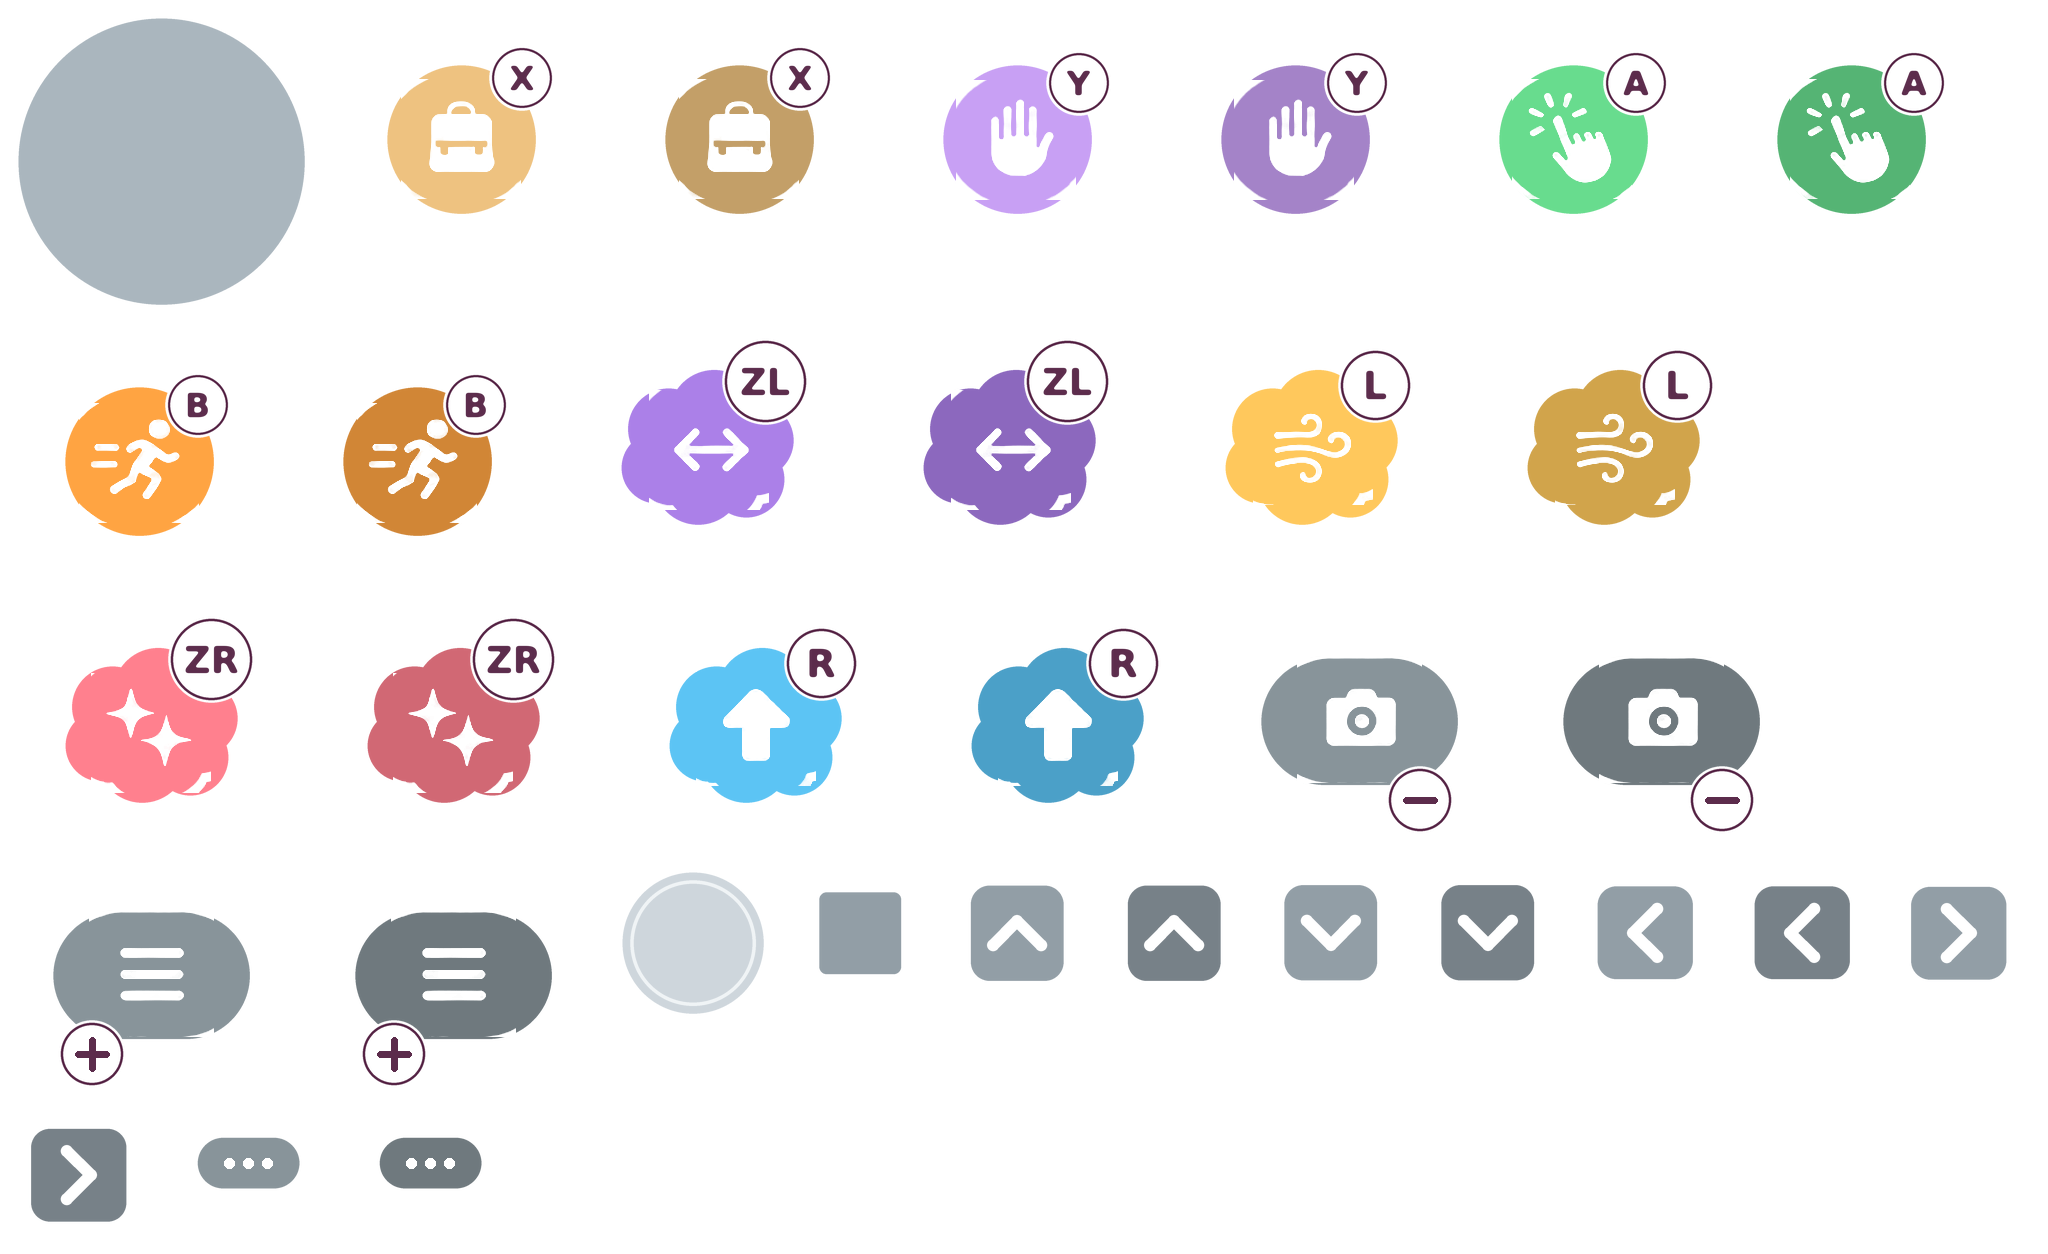
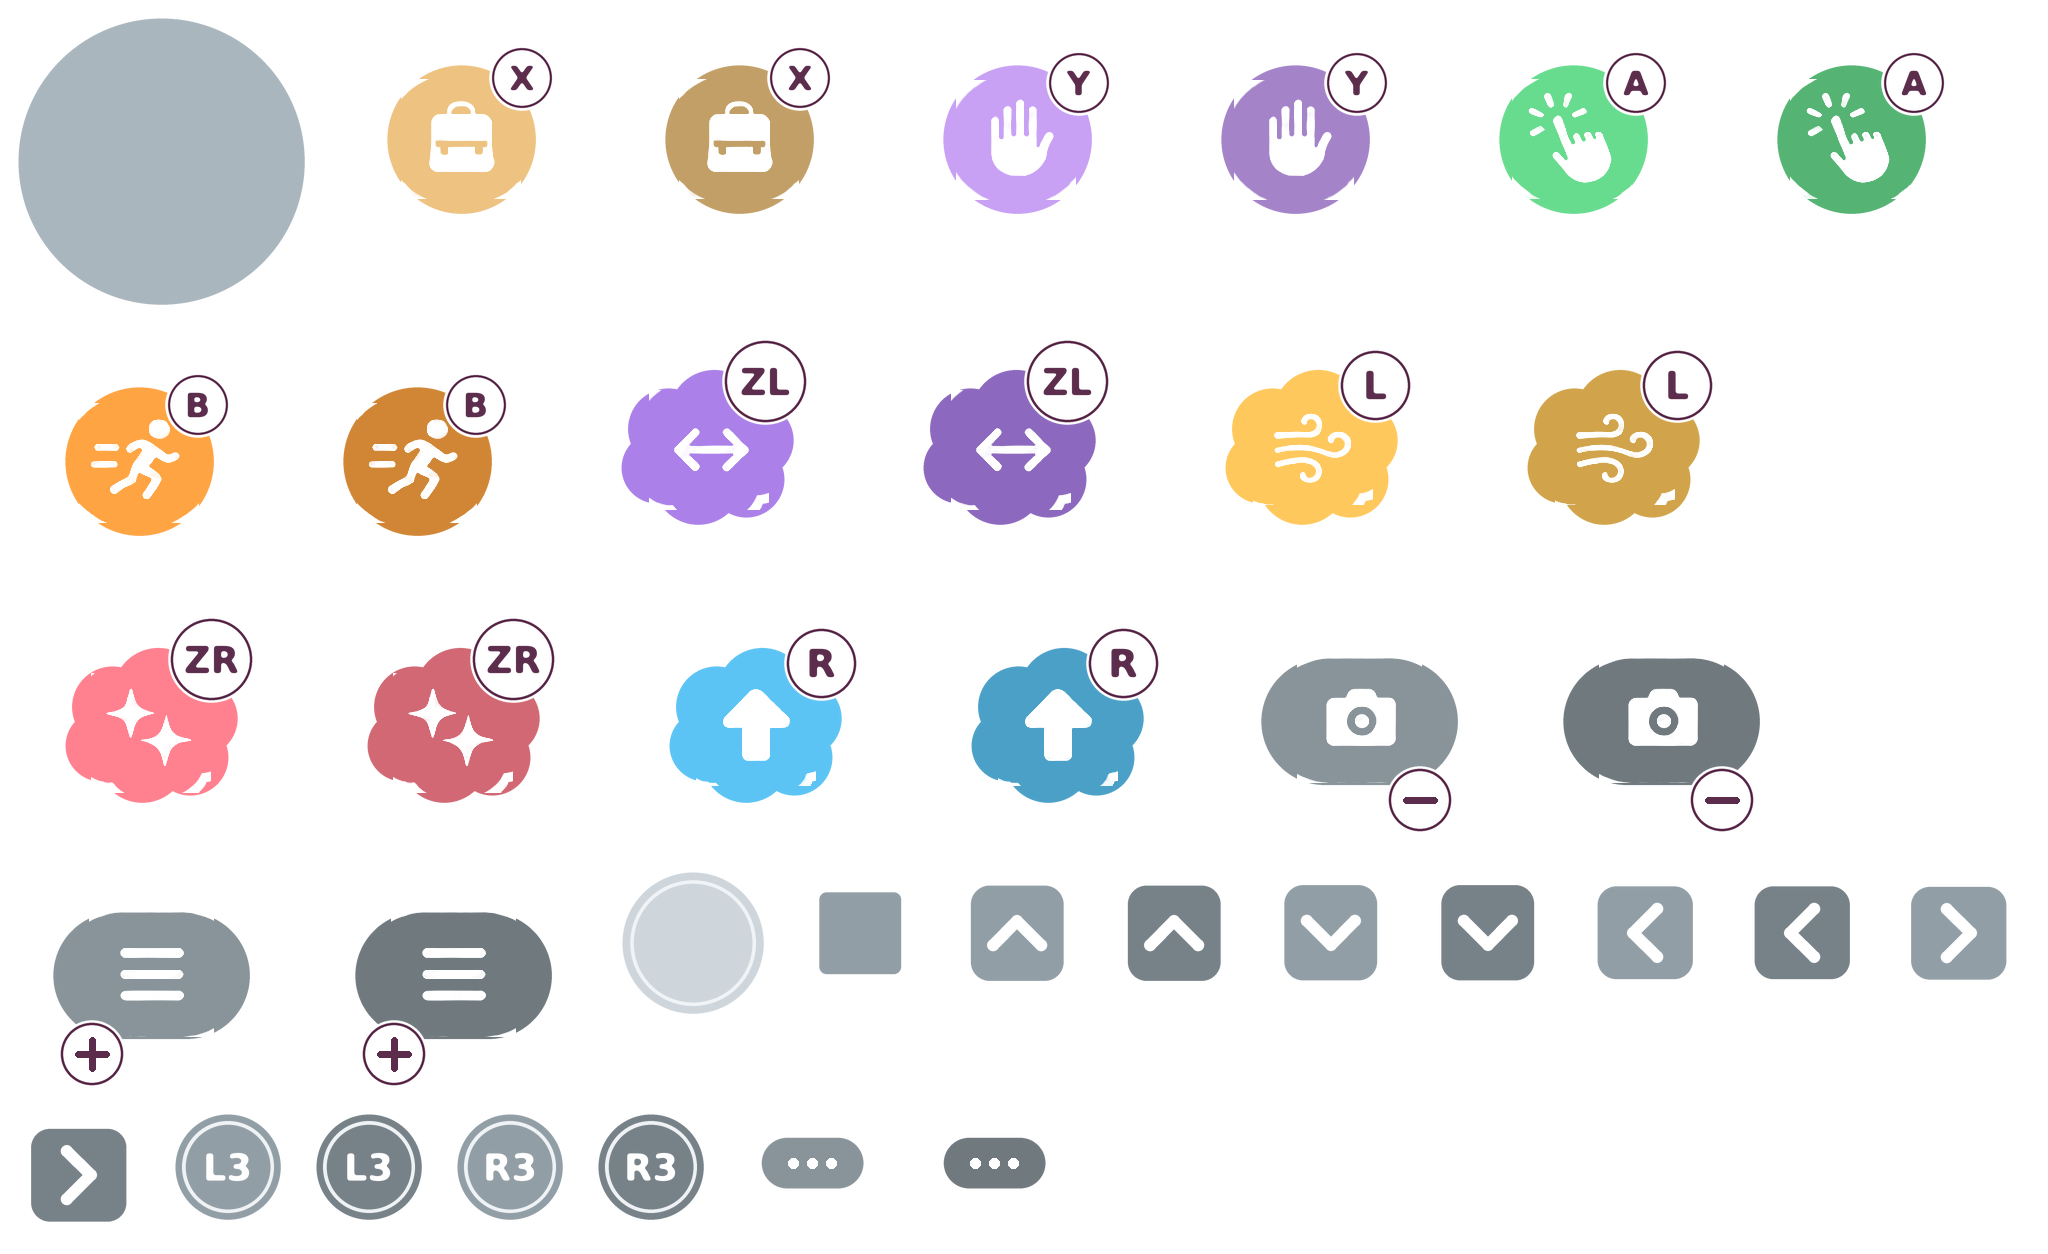
feat(pokopia): L3 and R3 on the on-screen gamepad, in the theme's style
Small discs in the d-pad's grey with the theme's white ring, a stick's ring
inside (a pressed stick) and their names in the theme's rounded letters, beside
each stick, clear of the d-pad and B. They were size 0 before: not in the
player's picture.

Claude-Session: https://claude.ai/code/session_0162gejjLRyHt81rZFXrF1MQ

Changed region(s): [[0.0625, 0.8708, 0.3438, 0.9952], [0.375, 0.9019, 0.5312, 0.9641]]

diff --git a/devtools/pokopia_hud.py b/devtools/pokopia_hud.py
@@ -22,6 +22,8 @@ CTL = {'zl': (120, 153, 170, 135, (122, 154), 'ZL'), 'l': (120, 301, 170, 135, (
 BADGE = {'zl': (168, 97, 36), 'l': (173, 248, 31), 'zr': (1452, 97, 36), 'r': (1457, 248, 31), 'x': (1362, 412, 27), 'y': (1247, 530, 27), 'a': (1453, 530, 27), 'b': (1337, 641, 27), 'minus': (555, 175, 28), 'plus': (965, 175, 28)}
 STICKS = {'stick_l': (145, 866), 'stick_r': (1387, 870)}; STICK_R = 125; KNOB_R = 65
 DPAD = (173, 531); MENU = (768, 56, 92, 50)
+# L3 and R3 (not in the picture): small discs in the d-pad's grey with their names in white and a stick's ring, beside each stick, clear of the d-pad and B
+CLICK = {'ls': (335, 800, 'L3'), 'rs': (1185, 800, 'R3')}; CLICK_R = 50
 
 def rounded_text(s, size):   # letters with soft corners: blurred and cut again
     S = 8; f = ImageFont.truetype(BOLD, size * S)
@@ -99,6 +101,14 @@ def dpad_arm(a, held, rot):
     im.paste((255, 255, 255, 255), (0, 0), chev)
     return im.rotate(rot, Image.BICUBIC), W
 
+def click(a, name, held):   # L3 / R3: the disc, the knob's thin white ring inside it, and the name
+    R = CLICK_R; W = 2 * (R + 8); K = a.k
+    def rr(r): return lambda d, x, y, s: d.ellipse(((x - r) * s, (y - r) * s, (x + r) * s, (y + r) * s), fill=255)
+    im = a.layered(W, W, a.shape(W, W, rr(R)), darker(PAD, 0.82) if held else PAD, a.shape(W, W, rr(R - 6.5)))
+    t = a.shape(W, W, rr(R - 12)); t2 = a.shape(W, W, rr(R - 15)); im.paste((240, 244, 246, 255), (0, 0), ImageChops.subtract(t, t2))
+    g = rounded_text(CLICK[name][2], int(R * 0.62 * K)); im.paste((255, 255, 255, 255), ((im.width - g.width) // 2, (im.height - g.height) // 2), g)
+    return im, W
+
 def hub(a):
     W = 130
     def sq(d, x, y, s): d.rounded_rectangle(((x - 34) * s, (y - 34) * s, (x + 34) * s, (y + 34) * s), 6 * s, fill=255)
@@ -126,9 +136,8 @@ def pack(layout, dw, dh, ktex):
         for st, h in (('idle', 0), ('held', 1)):
             im, W = dpad_arm(a, h, rot); tiles.append(('dpad', dir_, st, im, (ox - W / 2) * k, (oy - W / 2) * k + (3 if h else 0)))
     for st, h in (('idle', 0), ('held', 1)): im, W, H = app_menu(a, h); add('menu', '-', st, im, W, H)
-    blank = Image.new('RGBA', (2, 2), (0, 0, 0, 0))
-    for n in ('ls', 'rs'):   # no such controls in the picture: nothing to draw and nothing to touch (overlay rows of size 0)
-        for st in ('idle', 'held'): tiles.append((n, '-', st, blank, 0, 0))
+    for n in CLICK:
+        for st, h in (('idle', 0), ('held', 1)): im, W = click(a, n, h); add(n, '-', st, im, W, W, 3 if h else 0)
     # the atlas: shelves, tallest first; a tile drawn twice is stored once
     seen = {}; order = sorted(range(len(tiles)), key=lambda i: -tiles[i][3].height); W = 2048; x = y = sh = 1; place = {}
     for i in order:
@@ -157,7 +166,7 @@ def overlay_rows():
         for n, (cx, cy) in STICKS.items(): out.append(f'overlay\t{lay} {n} {frac(lay, cx):.4f} {cy / IH:.4f} {2 * STICK_R / IH:.4f} {2 * STICK_R / IH:.4f}')
         out.append(f'overlay\t{lay} dpad {frac(lay, DPAD[0]):.4f} {DPAD[1] / IH:.4f} {230 / IH:.4f} {230 / IH:.4f}')
         out.append(f'overlay\t{lay} menu 0.5000 {MENU[1] / IH:.4f} {MENU[2] / IH:.4f} {MENU[3] / IH:.4f}')
-        for n in ('ls', 'rs'): out.append(f'overlay\t{lay} {n} 0.5 0.5 0 0')
+        for n, (cx, cy, _) in CLICK.items(): out.append(f'overlay\t{lay} {n} {frac(lay, cx):.4f} {cy / IH:.4f} {2 * CLICK_R / IH:.4f} {2 * CLICK_R / IH:.4f}')
     return out
 
 def font():   # the menus' letters: rounded bold, cells 40 texels high at an em of 30
@@ -176,7 +185,7 @@ def main():
     rows = ['# Generated by devtools/pokopia_hud.py from design.png, the player\'s picture; do not edit', 'alpha\t1'] + pack('tablet', 1216, 760, 3) + pack('phone', 915, 412, 3)
     (PACK / 'theme.tsv').write_text('\n'.join(rows) + '\n', encoding='utf-8')
     t = PROFILE.read_text(encoding='utf-8'); t = re.sub(r'# the gamepad as in the player\'s picture.*?\n(overlay\t.*\n)*', '', t)
-    PROFILE.write_text(t.rstrip('\n') + "\n# the gamepad as in the player's picture (themes/pokopia, devtools/pokopia_hud.py). L3 and R3 are not in it: size 0, no touch\n" + '\n'.join(overlay_rows()) + '\n', encoding='utf-8')
+    PROFILE.write_text(t.rstrip('\n') + "\n# the gamepad as in the player's picture (themes/pokopia, devtools/pokopia_hud.py); L3 and R3 added beside the sticks in its style\n" + '\n'.join(overlay_rows()) + '\n', encoding='utf-8')
     font()
 
 main()
